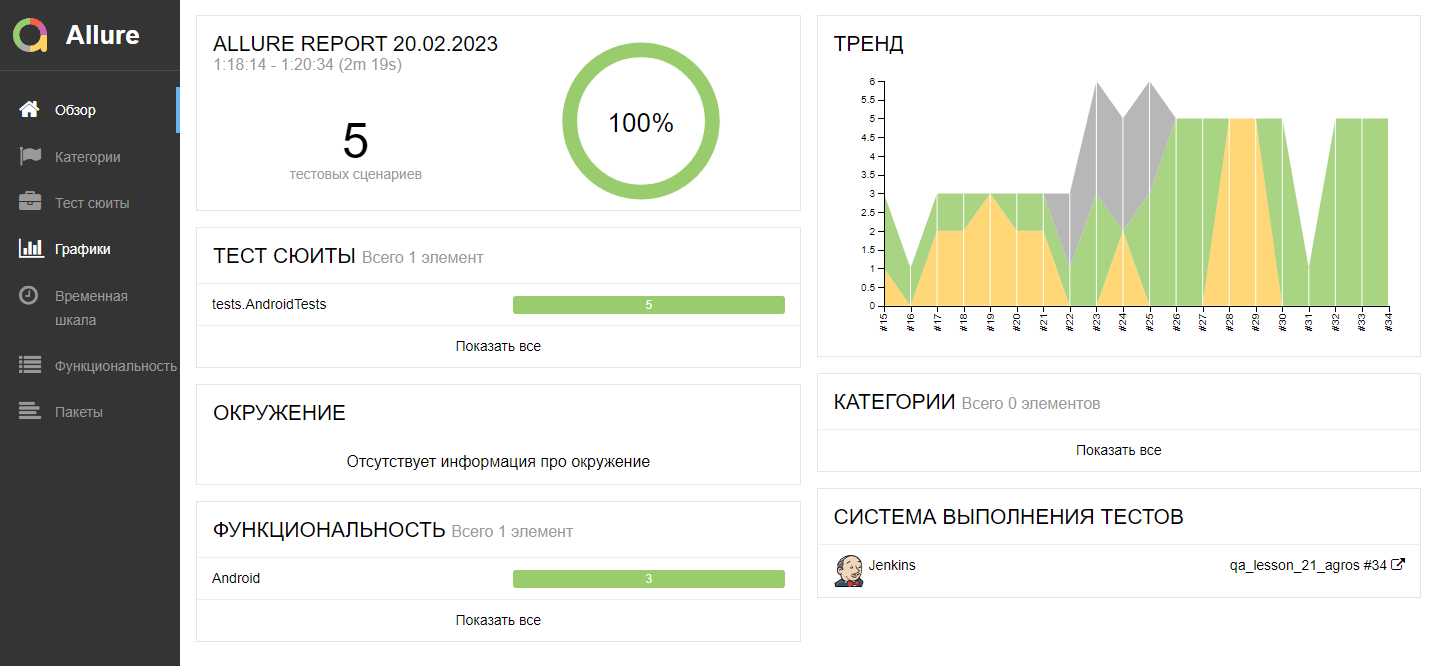
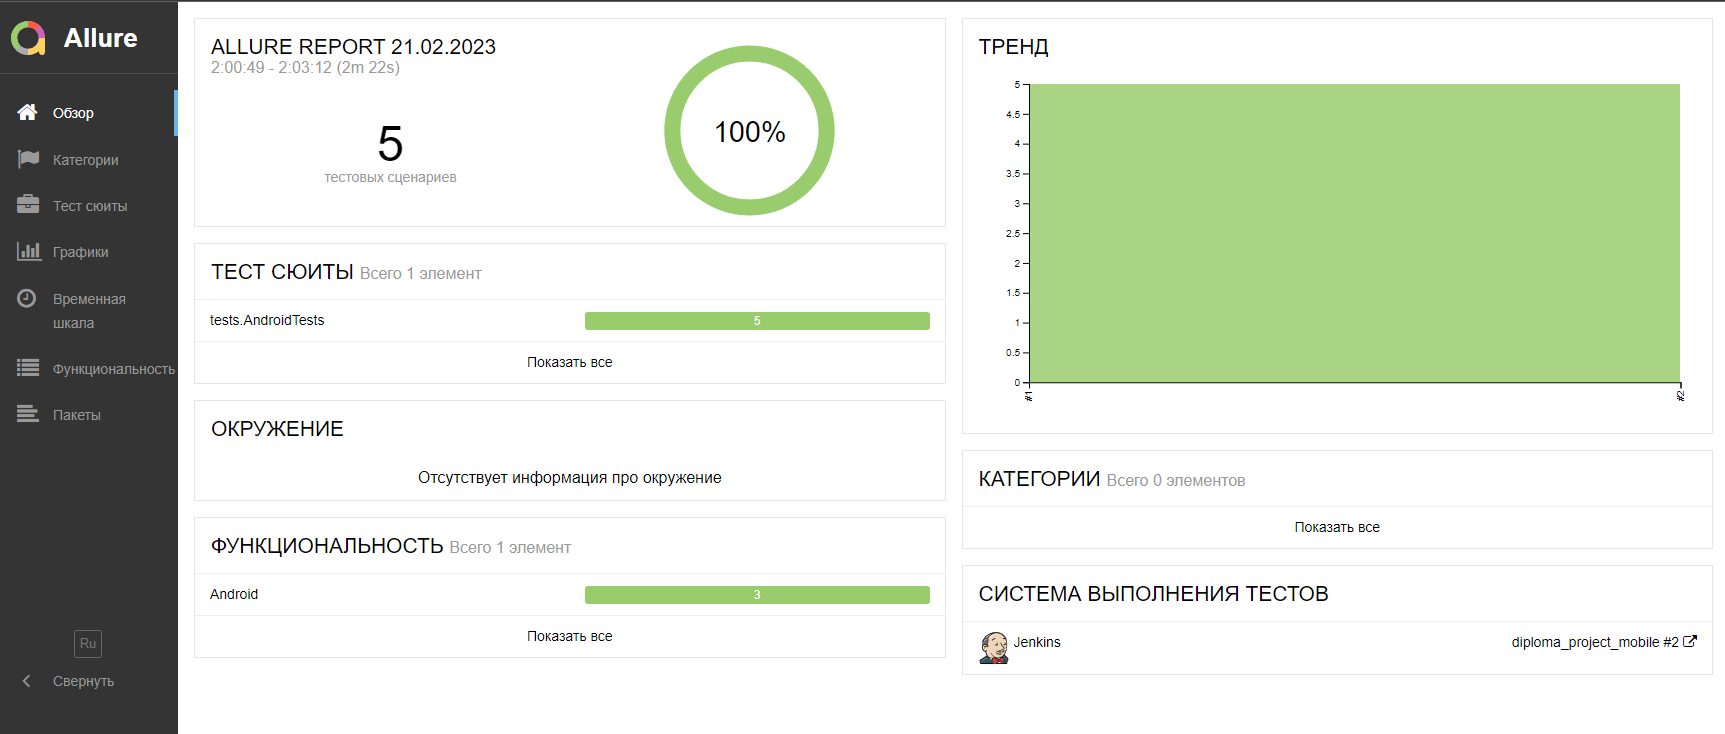
Поправил README.md

diff --git a/README.md b/README.md
@@ -43,7 +43,7 @@ gradle clean ios -Denv=ios
 gradle clean android -Denv=local  
 ```
 
-## <img width="4%" title="Jenkins" src="media/logo/Jenkins.svg"> Запуск тестов в [Jenkins](https://jenkins.autotests.cloud/job/qa_lesson_21_agros/)
+## <img width="4%" title="Jenkins" src="media/logo/Jenkins.svg"> Запуск тестов в [Jenkins](https://jenkins.autotests.cloud/job/diploma_project_mobile/)
 
 Сборка проекта.
 
@@ -51,7 +51,7 @@ gradle clean android -Denv=local
   <img src="media/screen/main_jenkins.png" alt="Jenkins" width="800">
 </p>
 
-## <img width="4%" title="Allure Report" src="media/logo/Allure_Report.svg"> Отчет о результатах тестирования в [Allure Report](https://jenkins.autotests.cloud/job/qa_lesson_21_agros/33/allure/#)
+## <img width="4%" title="Allure Report" src="media/logo/Allure_Report.svg"> Отчет о результатах тестирования в [Allure Report](https://jenkins.autotests.cloud/job/diploma_project_mobile/1/allure/)
 
 <p align="center">
   <img src="media/screen/allure_1.png" alt="allure-report_1" width="900">
@@ -61,25 +61,24 @@ gradle clean android -Denv=local
   <img src="media/screen/allure_2.png" alt="allure-report_2" width="900">
 </p>
 
-## <img width="4%" title="Allure TestOPS" src="media/logo/Allure_TO.svg"> Интеграция с [Allure TestOps](https://allure.autotests.cloud/launch/)
+## <img width="4%" title="Allure TestOPS" src="media/logo/Allure_TO.svg"> Интеграция с [Allure TestOps](https://allure.autotests.cloud/launch/19365/)
 
-### Основной дашборд
+
 
 <p align="center">
-  <img src="media/screen/dashboards.png" alt="dashboard" width="900">
+  <img src="media/screen/Allure_TO1.png" alt="Allure_TO" width="900">
 </p>
 
-### Список тестов с результатами
 
 <p align="center">
-  <img src="media/screen/allure-testops-results.png" alt="dashboard" width="900">
+  <img src="media/screen/Allure_TO2.png" alt="Allure_TO" width="900">
 </p>
 
 ## <img width="4%" title="Telegram" src="media/logo/Telegram.svg"> Уведомления в Telegram
 После завершения сборки специальный бот, созданный в <code>Telegram</code>, автоматически обрабатывает и отправляет сообщение с отчетом о прохождении тестов.
 
 <p align="center">
-<img title="Telegram Notifications" src="media/screen/Telegram.png">
+<img title="Telegram Notifications" src="media/screen/telegram_notify.png">
 
 ## <img width="4%" title="Browserstack" src="media/logo/Browserstack.svg"> Пример запуска теста в Browserstack
 
